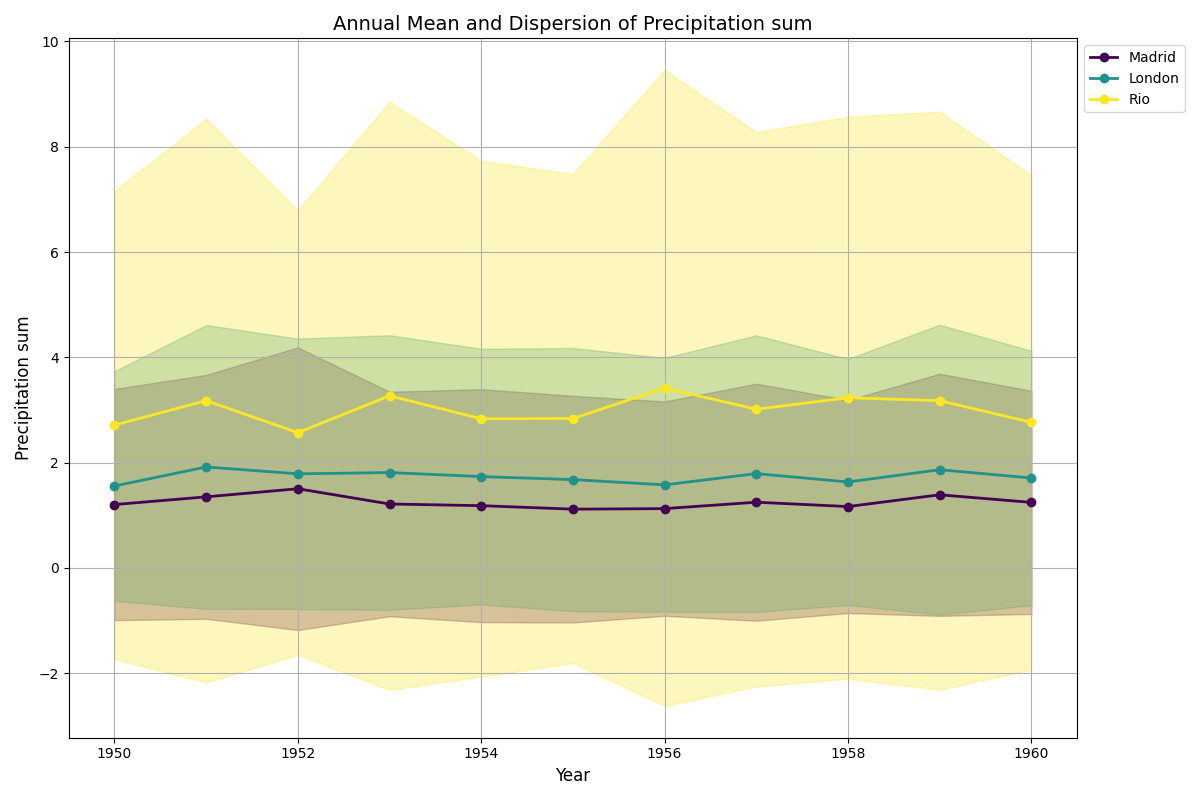
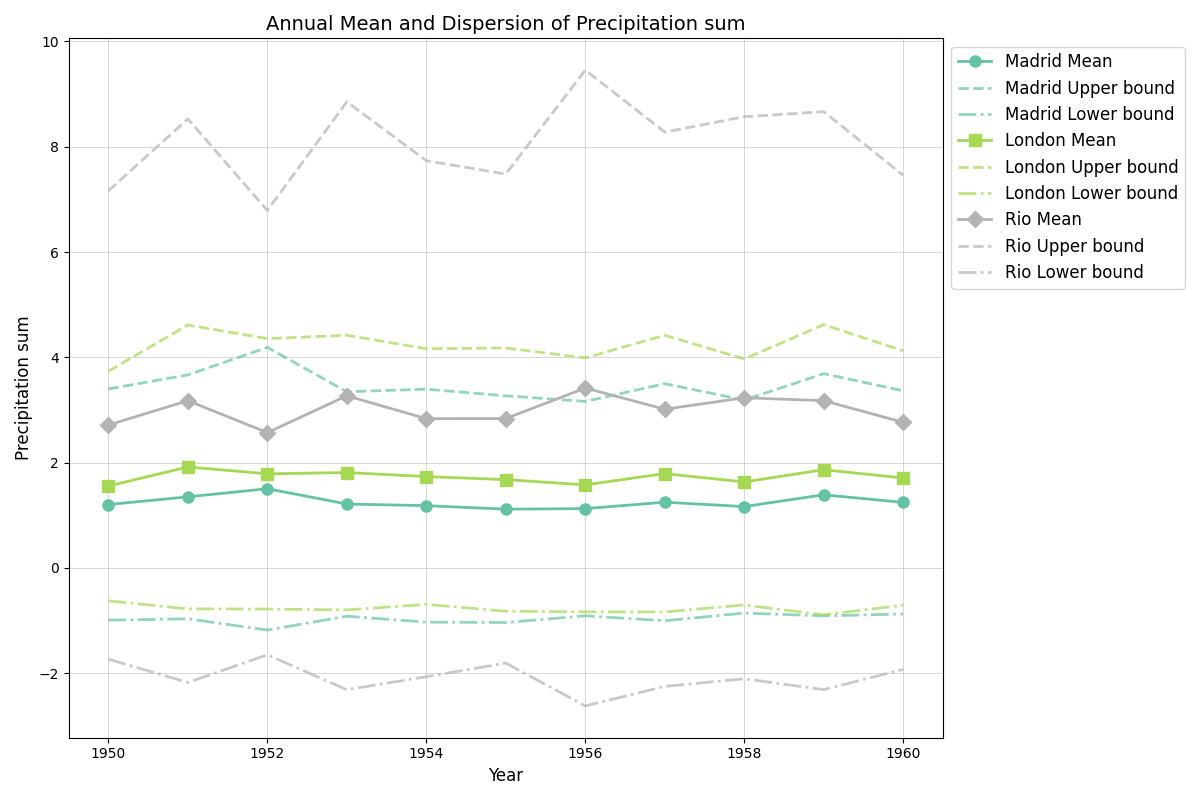
Cambios sugeridos en la pull request

diff --git a/src/module_1/module_1_meteo_api.py b/src/module_1/module_1_meteo_api.py
@@ -1,9 +1,9 @@
-import pandas as pd
-import numpy as np
-import requests
-import matplotlib.pyplot as plt
-import time
 import logging
+import matplotlib.pyplot as plt
+import numpy as np
+import pandas as pd
+import requests
+import time
 from requests.models import Response
 
 
@@ -25,7 +25,7 @@ MODELS = [
 ]
 MAX_CALL_ATTEMPTS = 50
 
-# Logging configuration
+
 logging.basicConfig(
     level=logging.INFO, format="%(asctime)s - %(levelname)s - %(message)s"
 )
@@ -70,10 +70,11 @@ def call_api(params: dict):
     while call_attempts < MAX_CALL_ATTEMPTS:
         try:
             response = requests.get(API_URL, params=params)
-            if response.status_code == 200:
-                if validate_response(response.json()):
-                    return response
-            elif response.status_code == 429:
+            response.raise_for_status()
+            if validate_response(response.json()):
+                return response
+        except requests.exceptions.HTTPError as e:
+            if response.status_code == 429:
                 # Use the Retry-After header to determine the cool-off time
                 cool_off_time = response.headers.get("Retry-After", backoff_time)
                 logging.info(
@@ -83,16 +84,21 @@ def call_api(params: dict):
                 time.sleep(cool_off_time)
                 backoff_time *= 2
             else:
-                raise Exception(
-                    f"API request failed with status code {response.status_code}"
-                )
-        except Exception as e:
-            logging.info(f"API request failed with exception {e}")
-            break
+                logging.error(f"HTTP error: {e}")
+                return None
+        except requests.exceptions.ConnectionError as e:
+            logging.error(f"Connection error: {e}")
+            return None
+        except requests.exceptions.Timeout as e:
+            logging.error(f"Timeout error: {e}")
+            return None
+        except requests.exceptions.RequestException as e:
+            logging.error(f"Request error: {e}")
+            return None
         call_attempts += 1
         logging.info(f"Call attempts: {call_attempts}")
     logging.info("Max number of call attempts reached. Returning empty result")
-    return response
+    return None
 
 
 def get_data_meteo_api(
@@ -133,7 +139,15 @@ def get_data_meteo_api(
 def calculate_mean_std(df: pd.DataFrame) -> pd.DataFrame:
     """
     Calculates the mean and standard deviation for each prefix in the \
-    DataFrame's columns.
+    DataFrame's columns. So if the DataFrame has columns 'temperature_2m_mean_df0', \
+    'temperature_2m_mean_df1', 'precipitation_sum_df0', 'precipitation_sum_df1', \
+    'soil_moisture_0_to_10cm_mean_df0', and 'soil_moisture_0_to_10cm_mean_df1', \
+    the function will calculate the mean and standard deviation for the \
+    'temperature_2m_mean', 'precipitation_sum', and 'soil_moisture_0_to_10cm_mean' \
+    prefixes. Once the mean and standard deviation are calculated, the original \
+    columns are dropped and the new columns are added to the DataFrame. Other columns \
+    without underscores are left untouched(i.e. 'city' and 'time')
+    
     :param df: The DataFrame to calculate the mean and standard deviation for.
     :return: A new DataFrame with the mean and standard deviation for each prefix in the 
     original DataFrame's columns.
@@ -151,10 +165,61 @@ def calculate_mean_std(df: pd.DataFrame) -> pd.DataFrame:
     return df
 
 
+# def plot_data(df: pd.DataFrame, variable: str) -> None:
+#     """
+#     Plots the annual mean and dispersion of a specified variable for each city in \
+#     the DataFrame.
+#     :param df: The DataFrame containing the data to plot.
+#     :param variable: The variable to plot.
+#     :return: None
+#     """
+
+#     # Create a mapping from short variable names to full names
+#     short_to_full = {v.split("_")[0]: v for v in VARIABLES}
+
+#     # Retrieve the full name of the variable
+#     full_variable_name = short_to_full.get(variable, variable)
+
+#     fig, ax = plt.subplots(figsize=(12, 8))
+#     # Create a distinct color for each city
+#     colors = plt.cm.viridis(np.linspace(0, 1, len(COORDINATES)))
+
+
+#     for idx, city in enumerate(COORDINATES.keys()):
+#         city_data = df[df["city"] == city]
+#         mean = city_data[f"{variable}_mean"]
+#         std = city_data[f"{variable}_std"]
+#         plt.plot(
+#             city_data["year"],
+#             mean,
+#             label=city,
+#             color=colors[idx],
+#             marker="o",
+#             linestyle="-",
+#             linewidth=2,
+#         )
+#         plt.fill_between(
+#             city_data["year"], mean - std, mean + std, color=colors[idx], alpha=0.3
+#         )
+
+#     ax.set_title(
+#         f'Annual Mean and Dispersion of {full_variable_name.replace("_", " ").capitalize()}',
+#         fontsize=14,
+#     )
+#     ax.set_xlabel("Year", fontsize=12)
+#     ax.set_ylabel(full_variable_name.replace("_", " ").capitalize(), fontsize=12)
+#     ax.tick_params(axis="both", which="major", labelsize=10)
+#     ax.grid(True)
+#     ax.legend(loc="upper left", bbox_to_anchor=(1, 1), fontsize=10)
+#     plt.tight_layout()
+#     plt.show()
+
+
 def plot_data(df: pd.DataFrame, variable: str) -> None:
     """
     Plots the annual mean and dispersion of a specified variable for each city in \
-    the DataFrame.
+    the DataFrame, using line plots for means and dashed lines for standard deviation.
+    This approach improves clarity and accessibility for the general population, including individuals with color vision deficiencies.
     :param df: The DataFrame containing the data to plot.
     :param variable: The variable to plot.
     :return: None
@@ -166,72 +231,94 @@ def plot_data(df: pd.DataFrame, variable: str) -> None:
     # Retrieve the full name of the variable
     full_variable_name = short_to_full.get(variable, variable)
 
-    plt.figure(figsize=(12, 8))
-
-    # Create a distinct color for each city
-    colors = plt.cm.viridis(np.linspace(0, 1, len(COORDINATES)))
+    fig, ax = plt.subplots(figsize=(12, 8))
+    # Create a distinct color and line style for each city
+    colors = plt.cm.Set2(np.linspace(0, 1, len(COORDINATES)))
+    markers = ["o", "s", "D"]  # Circle, square, diamond
 
     for idx, city in enumerate(COORDINATES.keys()):
         city_data = df[df["city"] == city]
         mean = city_data[f"{variable}_mean"]
         std = city_data[f"{variable}_std"]
+        # Plot mean
         plt.plot(
             city_data["year"],
             mean,
-            label=city,
+            label=f"{city} Mean",
             color=colors[idx],
-            marker="o",
+            marker=markers[idx % len(markers)],
             linestyle="-",
             linewidth=2,
+            markersize=8,
         )
-        plt.fill_between(
-            city_data["year"], mean - std, mean + std, color=colors[idx], alpha=0.3
+        # Plot standard deviation with dashed lines
+        plt.plot(
+            city_data["year"],
+            mean + std,
+            color=colors[idx],
+            label=f"{city} Upper bound",
+            linestyle="dashed",
+            linewidth=2,
+            alpha=0.7,
+        )
+        plt.plot(
+            city_data["year"],
+            mean - std,
+            label=f"{city} Lower bound",
+            color=colors[idx],
+            linestyle="dashdot",
+            linewidth=2,
+            alpha=0.7,
         )
 
-    plt.title(
+    ax.set_title(
         f'Annual Mean and Dispersion of {full_variable_name.replace("_", " ").capitalize()}',
         fontsize=14,
     )
-    plt.xlabel("Year", fontsize=12)
-    plt.ylabel(full_variable_name.replace("_", " ").capitalize(), fontsize=12)
-    plt.xticks(fontsize=10)
-    plt.yticks(fontsize=10)
-    plt.grid(True)
-    plt.legend(loc="upper left", bbox_to_anchor=(1, 1), fontsize=10)
+    ax.set_xlabel("Year", fontsize=12)
+    ax.set_ylabel(full_variable_name.replace("_", " ").capitalize(), fontsize=12)
+    ax.tick_params(axis="both", which="major", labelsize=10)
+    ax.grid(True, which="both", linewidth=0.5, alpha=0.7)
+    ax.legend(loc="upper left", bbox_to_anchor=(1, 1), fontsize=12)
     plt.tight_layout()
     plt.show()
 
 
 def main():
-    list_data_cities = []
-    for city in COORDINATES.keys():
-        logging.info(f"Getting data for {city}")
-        list_data_variables = []
-        for variable in VARIABLES:
-            logging.info(f"Getting data for {variable} in {city}")
-            for model in MODELS:
-                logging.info(f"Getting data for {model} in {city}")
-                data = get_data_meteo_api(
-                    city, "1950-01-01", "1960-12-31", variable, model
-                )
-                logging.info(data.head())
-                list_data_variables.append(data)
-        combined_df = list_data_variables[0]
-        for i, df in enumerate(list_data_variables[1:], 1):
-            combined_df = pd.merge(
-                combined_df, df, on=["time", "city"], suffixes=("", f"_df{i}")
-            )
+    # start_date = "1950-01-01"
+    # end_date = "1960-12-31"
+    # list_data_cities = []
+    # for city in COORDINATES.keys():
+    #     logging.info(f"Getting data for {city}")
+    #     list_data_variables = []
+    #     for variable in VARIABLES:
+    #         logging.info(f"Getting data for {variable} in {city}")
+    #         for model in MODELS:
+    #             logging.info(f"Getting data for {model} in {city}")
+    #             data = get_data_meteo_api(city, start_date, end_date, variable, model)
+    #             if data is None:
+    #                 logging.warning(
+    #                     f"Skipping {model} due to missing data for {city} with {variable}."
+    #                 )
+    #                 continue
+    #             logging.info(data.head())
+    #             list_data_variables.append(data)
+    #     combined_df = list_data_variables[0]
+    #     for i, df in enumerate(list_data_variables[1:], 1):
+    #         combined_df = pd.merge(
+    #             combined_df, df, on=["time", "city"], suffixes=("", f"_df{i}")
+    #         )
 
-        data_with_calculation = calculate_mean_std(combined_df)
-        list_data_cities.append(data_with_calculation)
+    #     data_with_calculation = calculate_mean_std(combined_df)
+    #     list_data_cities.append(data_with_calculation)
 
-    df_total = pd.concat(list_data_cities)
+    # df_total = pd.concat(list_data_cities)
 
-    df_total["time"] = pd.to_datetime(df_total["time"])
-    df_total["year"] = df_total["time"].dt.year
+    # df_total["time"] = pd.to_datetime(df_total["time"])
+    # df_total["year"] = df_total["time"].dt.year
 
-    annual_data = df_total.groupby(["city", "year"]).mean().reset_index()
-    annual_data.to_csv("src/module_1/annual_data.csv", index=False)
+    # annual_data = df_total.groupby(["city", "year"]).mean().reset_index()
+    # annual_data.to_csv("src/module_1/annual_data.csv", index=False)
 
     annual_data = pd.read_csv("src/module_1/annual_data.csv")
     annual_data = annual_data.drop(["time"], axis=1)

diff --git a/tests/module_1/test_meteo_api.py b/tests/module_1/test_meteo_api.py
@@ -1,6 +1,7 @@
 import unittest
 from unittest.mock import patch, Mock
 import pandas as pd
+import requests
 from src.module_1.module_1_meteo_api import (
     validate_response,
     calculate_mean_std,
@@ -50,12 +51,19 @@ class TestCallAPI(unittest.TestCase):
         mock_get.return_value = mock_response
         mock_response.status_code = 200
         mock_response.json.return_value = {
-            # Mocked JSON response
+            "latitude": 40.416775,
+            "longitude": -3.703790,
+            "generationtime_ms": 2.2119,
+            "timezone": "Europe/Madrid",
+            "timezone_abbreviation": "CEST",
+            "daily": {},
+            "daily_units": {},
         }
         params = {
             # Mocked parameters
         }
         result = call_api(params)
+        self.assertIsNotNone(result)
         self.assertEqual(result.status_code, 200)
 
     @patch("src.module_1.module_1_meteo_api.requests.get")
@@ -66,11 +74,83 @@ class TestCallAPI(unittest.TestCase):
         mock_response.status_code = 404
 
         result = call_api({})
-        self.assertEqual(result.status_code, 404)
 
+        self.assertIsNone(result)
 
-def test_main():
-    raise NotImplementedError
+    @patch("src.module_1.module_1_meteo_api.requests.get")
+    def test_call_api_rate_limit_exceeded_then_success(self, mock_get):
+        # Mock the first response as a rate limit error, then a successful response
+        mock_response_rate_limit = Mock()
+        mock_response_rate_limit.raise_for_status.side_effect = (
+            requests.exceptions.HTTPError()
+        )
+        mock_response_rate_limit.status_code = 429
+        mock_response_rate_limit.headers = {
+            "Retry-After": 5
+        }  # Simulate a short retry after period for the test
+
+        mock_response_success = Mock()
+        mock_response_success.status_code = 200
+        mock_response_success.json.return_value = {
+            "latitude": 40.416775,
+            "longitude": -3.703790,
+            "generationtime_ms": 2.2119,
+            "timezone": "Europe/Madrid",
+            "timezone_abbreviation": "CEST",
+            "daily": {},
+            "daily_units": {},
+        }
+
+        mock_get.side_effect = [mock_response_rate_limit, mock_response_success]
+
+        params = {}  # Mocked parameters
+        result = call_api(params)
+
+        self.assertIsNotNone(result)
+        self.assertEqual(result.status_code, 200)
+
+    @patch("src.module_1.module_1_meteo_api.logging.error")
+    @patch("src.module_1.module_1_meteo_api.requests.get")
+    def test_call_api_connection_error(self, mock_get, mock_log_error):
+        # Mock a connection error
+        mock_get.side_effect = requests.exceptions.ConnectionError()
+
+        params = {}  # Mocked parameters
+        result = call_api(params)
+
+        self.assertIsNone(result)
+        # Assert that logging.error was called at least once
+        self.assertTrue(mock_log_error.called, "Expected logging.error to be called")
+        # Check if any of the calls to logging.error start with "Connection error:"
+        error_message_starts_correctly = any(
+            call_arg[0][0].startswith("Connection error:")
+            for call_arg in mock_log_error.call_args_list
+        )
+        self.assertTrue(
+            error_message_starts_correctly,
+            "No log message starts with 'Connection error:'",
+        )
+
+    @patch("src.module_1.module_1_meteo_api.logging.error")
+    @patch("src.module_1.module_1_meteo_api.requests.get")
+    def test_call_api_timeout(self, mock_get, mock_log_error):
+        # Mock a timeout error
+        mock_get.side_effect = requests.exceptions.Timeout()
+
+        params = {}  # Mocked parameters
+        result = call_api(params)
+
+        self.assertIsNone(result)
+
+        self.assertTrue(mock_log_error.called, "Expected logging.error to be called")
+        error_message_starts_correctly = any(
+            call_arg[0][0].startswith("Timeout error:")
+            for call_arg in mock_log_error.call_args_list
+        )
+        self.assertTrue(
+            error_message_starts_correctly,
+            "No log message starts with 'Timeout error:'",
+        )
 
 
 if __name__ == "__main__":
